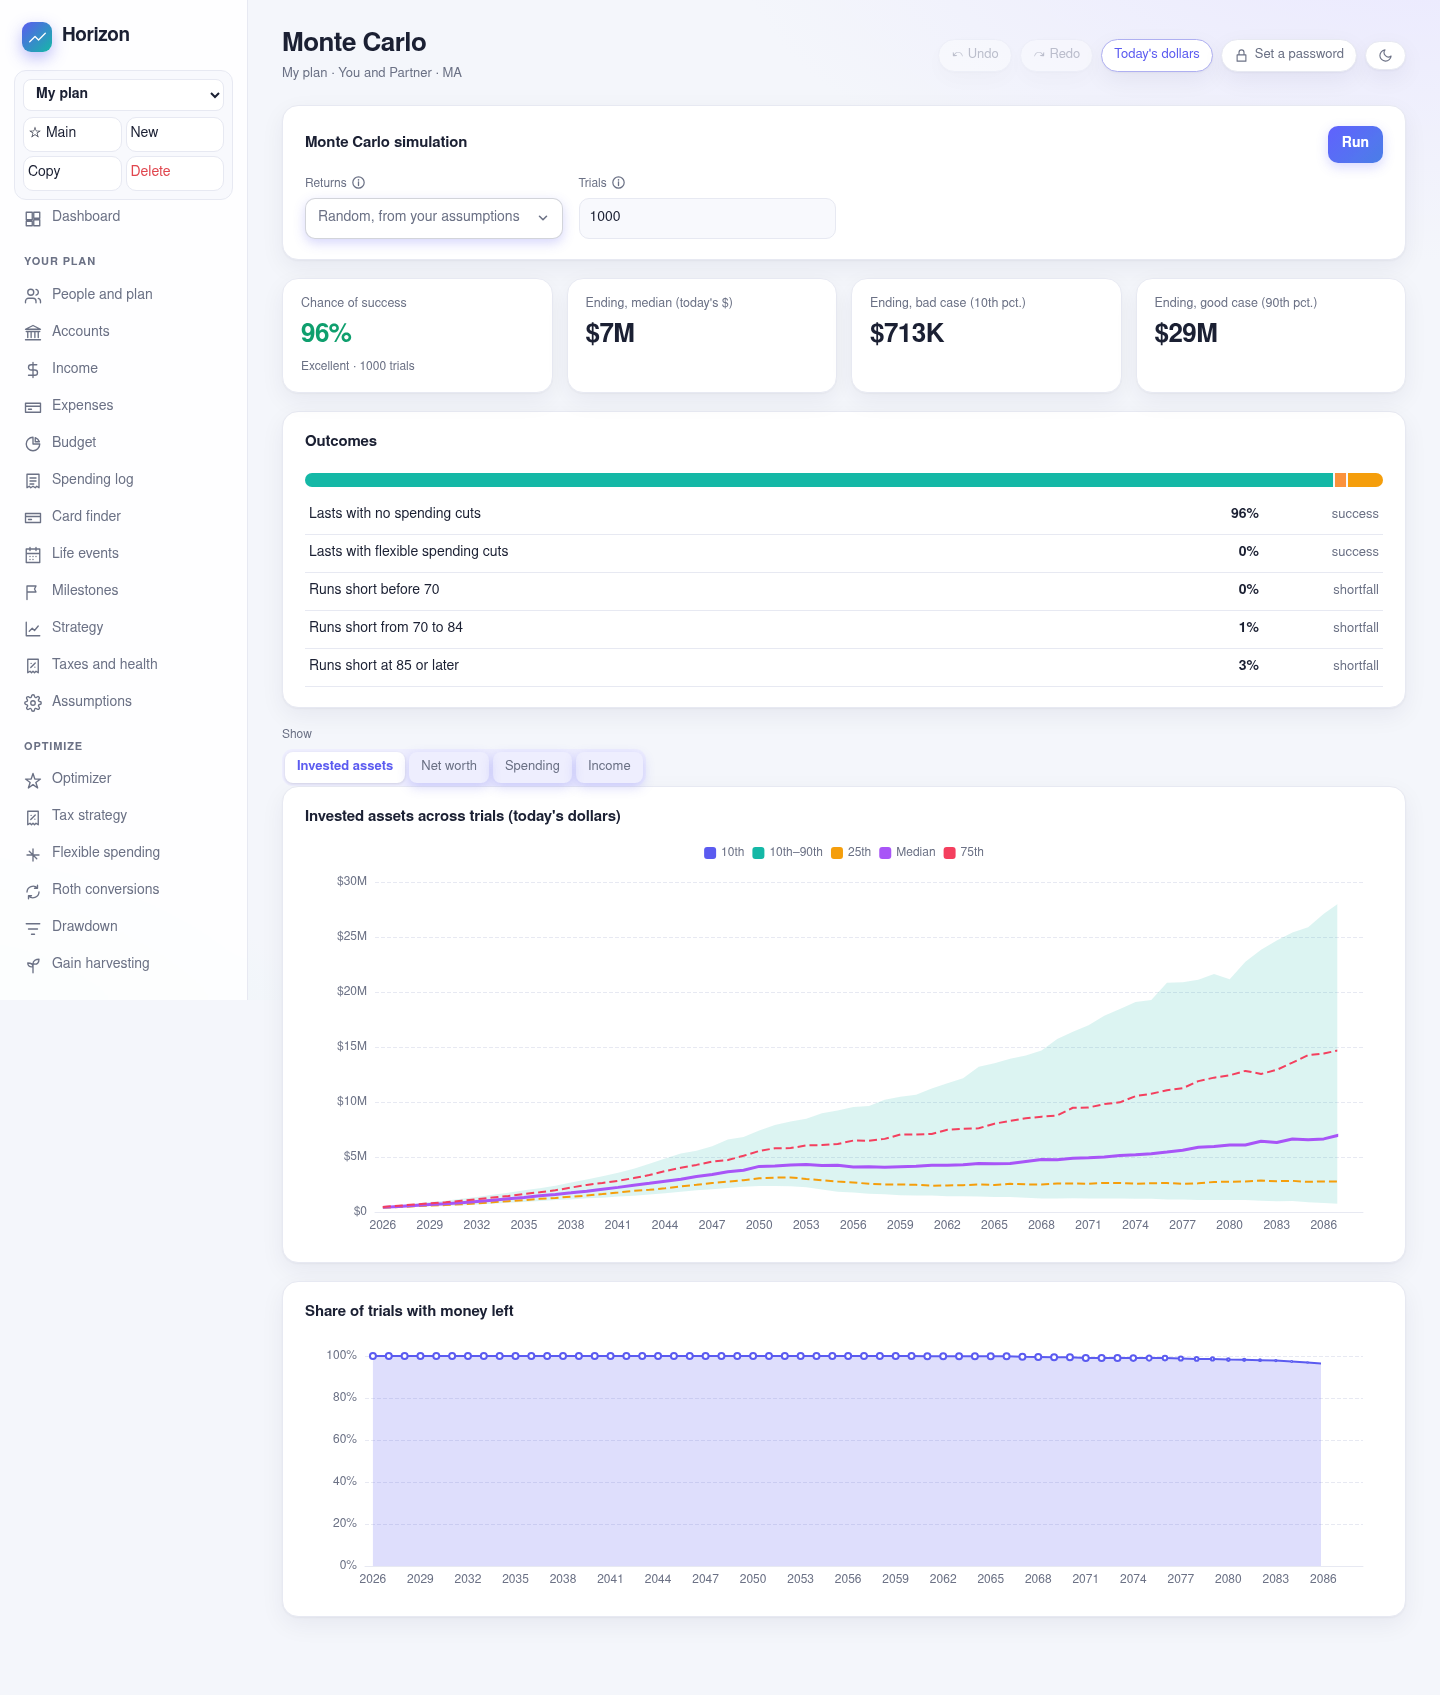
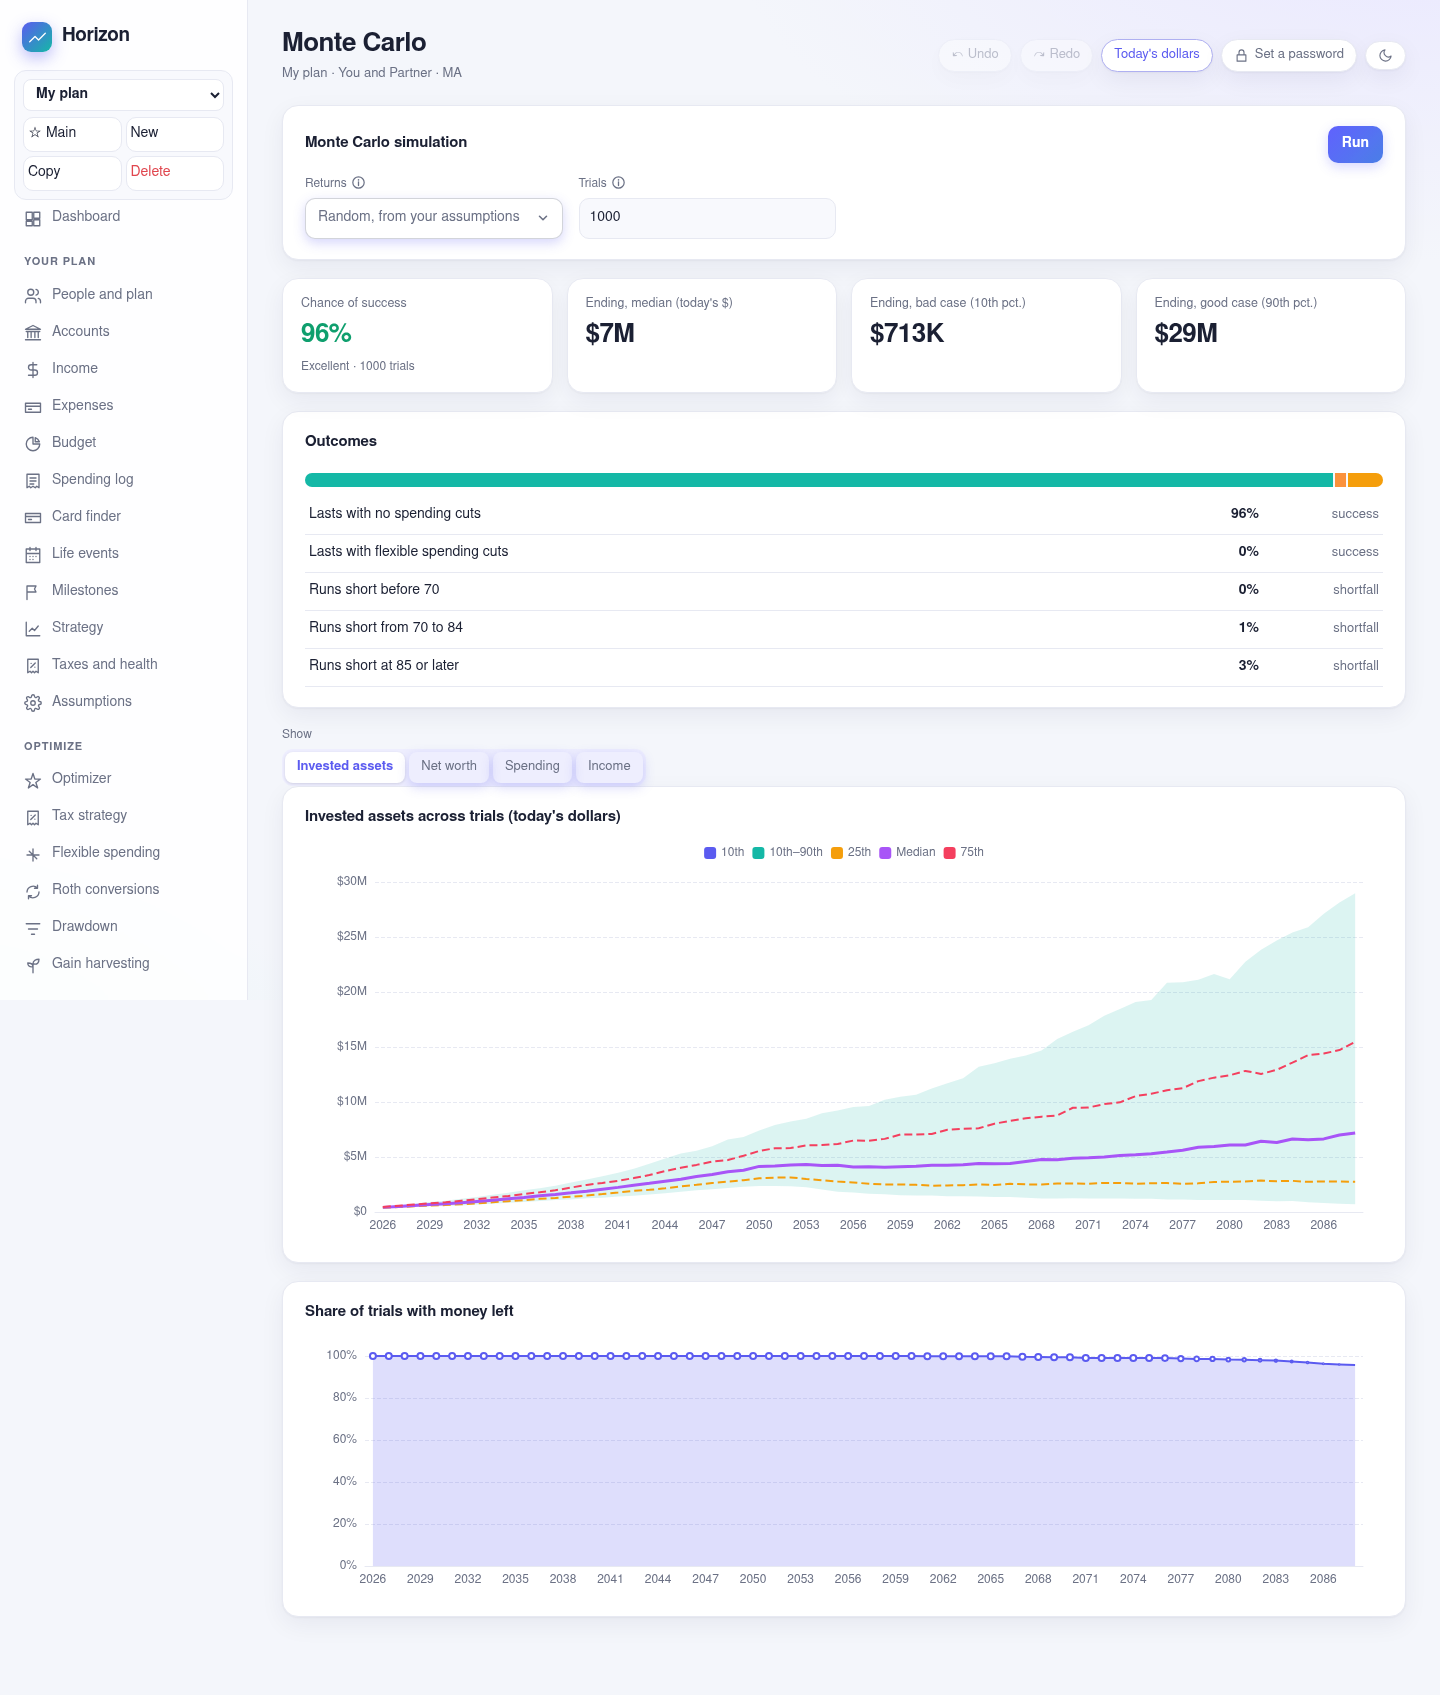
Plugin API (window.horizonPluginAPI: getAccounts, updateAccountValues, exportData, keyed and off by default) and tax-free PSLF forgiveness
Claude-Session: https://claude.ai/code/session_01HeJ1UAxjk6MGEszesTwGbu

Changed region(s): [[0.9062, 0.5215, 0.9688, 0.7056], [0.9062, 0.7976, 0.9688, 0.9204]]

diff --git a/10_app/code/src/plugins.ts b/10_app/code/src/plugins.ts
@@ -1,0 +1,44 @@
+// The plugin API (ProjectionLab's Plugin API, 2026-11-23): scripts running in the page read the active plan's accounts and
+// update balances, values, or cost basis, matched by account id, with the key shown in Settings. Off until enabled.
+import { useStore } from './store';
+
+type Update = { id: string; balance?: number; costBasis?: number };
+
+function check(key: string) {
+  const s = useStore.getState().settings;
+  if (!s.pluginsEnabled || !s.pluginKey || key !== s.pluginKey) throw new Error('Horizon plugin API: plugins are off or the key is wrong');
+}
+const active = () => { const st = useStore.getState(); return st.plans.find((p) => p.id === st.activeId)!; };
+
+export const pluginAPI = {
+  /** The active plan's accounts: id, name, kind, owner, and balance (debts as positive amounts owed). */
+  getAccounts(key: string) {
+    check(key);
+    return active().accounts.map((a) => ({ id: a.id, name: a.name, kind: a.kind, ownerId: a.ownerId, balance: a.kind === 'debt' ? Math.abs(a.balance) : a.balance, costBasis: a.costBasis }));
+  },
+  /** Updates balances (debts as positive amounts owed) and cost basis by account id; returns the ids not found. */
+  updateAccountValues(key: string, updates: Update[]) {
+    check(key);
+    const ids = new Set(active().accounts.map((a) => a.id));
+    const missing = updates.filter((u) => !ids.has(u.id)).map((u) => u.id);
+    useStore.getState().update((p) => {
+      for (const u of updates) {
+        const a = p.accounts.find((x) => x.id === u.id);
+        if (!a) continue;
+        if (typeof u.balance === 'number' && isFinite(u.balance)) a.balance = a.kind === 'debt' ? Math.abs(u.balance) : u.balance;
+        if (typeof u.costBasis === 'number' && isFinite(u.costBasis)) a.costBasis = u.costBasis;
+      }
+    });
+    return { missing };
+  },
+  /** Every plan, the progress records, and the settings, as the app's backup file holds them. */
+  exportData(key: string) {
+    check(key);
+    const { plans, snapshots, settings } = useStore.getState();
+    return structuredClone({ plans, snapshots, settings: { ...settings, pluginKey: undefined } });
+  },
+};
+
+export function installPlugins() {
+  (window as unknown as { horizonPluginAPI: typeof pluginAPI }).horizonPluginAPI = pluginAPI;
+}

diff --git a/10_app/code/src/App.tsx b/10_app/code/src/App.tsx
@@ -9,6 +9,8 @@ import { CardsPage } from './pages/Cards';
 import { SpendingPage } from './pages/Spending';
 import { TimelinePage } from './pages/Timeline';
 import { RentOwnPage } from './pages/RentOwn';
+import { installPlugins } from './plugins';
+installPlugins();
 import { HistoryPage } from './pages/History';
 import { Icon } from './icons';
 import { EstatePage, OptimizePage, PlotPage } from './pages/More';
@@ -393,6 +395,8 @@ function SettingsPage() {
         <div className="grid">
           <Check label="Show amounts in today's dollars" value={settings.realDollars} onChange={(v) => setSettings({ realDollars: v })} />
           <Check label="Hide amounts (dots in place of every figure)" value={!!settings.hideAmounts} onChange={(v) => setSettings({ hideAmounts: v })} />
+          <Check label="Enable plugins (window.horizonPluginAPI)" value={!!settings.pluginsEnabled} onChange={(v) => setSettings({ pluginsEnabled: v, pluginKey: v ? settings.pluginKey ?? crypto.randomUUID() : settings.pluginKey })} />
+          {settings.pluginsEnabled && <div className="row"><span>Plugin key: <code>{settings.pluginKey}</code></span><button className="ghost" onClick={() => setSettings({ pluginKey: crypto.randomUUID() })}>New key</button></div>}
           <Select label="Theme" value={settings.theme} options={[['auto', 'Auto'], ['light', 'Light'], ['dark', 'Dark']]} onChange={(v) => setSettings({ theme: v })} />
         </div>
       </Card>

diff --git a/10_app/code/src/engine/__tests__/plugins.test.ts b/10_app/code/src/engine/__tests__/plugins.test.ts
@@ -1,0 +1,21 @@
+import { describe, expect, it, vi } from 'vitest';
+import { examplePlan } from '../defaults';
+
+// The store persists to localStorage, which the test environment lacks: a map stands in.
+const mem = new Map<string, string>();
+vi.stubGlobal('localStorage', { getItem: (k: string) => mem.get(k) ?? null, setItem: (k: string, v: string) => mem.set(k, v), removeItem: (k: string) => mem.delete(k) });
+
+describe('plugin API', () => {
+  it('refuses a wrong key and updates balances by id with the right one', async () => {
+    const { useStore } = await import('../../store');
+    const { pluginAPI } = await import('../../plugins');
+    const plan = examplePlan();
+    useStore.setState({ plans: [plan], activeId: plan.id, settings: { ...useStore.getState().settings, pluginsEnabled: true, pluginKey: 'k' } });
+    expect(() => pluginAPI.getAccounts('bad')).toThrow();
+    const a = pluginAPI.getAccounts('k')[0];
+    const r = pluginAPI.updateAccountValues('k', [{ id: a.id, balance: 12345 }, { id: 'nope', balance: 1 }]);
+    expect(r.missing).toEqual(['nope']);
+    expect(pluginAPI.getAccounts('k')[0].balance).toBe(12345);
+    expect((pluginAPI.exportData('k').settings as { pluginKey?: string }).pluginKey).toBeUndefined();
+  });
+});

diff --git a/10_app/code/src/help.ts b/10_app/code/src/help.ts
@@ -308,4 +308,6 @@ export const HELP: Record<string, string> = {
   "Province or territory": "Where you file in Canada: its brackets and basic personal amount from the CRA 2026 tables. Quebec uses its own tax, pension plan, and parental insurance.",
   "Scottish taxpayer": "Earned and pension income is taxed at Scotland's 2026 to 2027 rates (19% to 48%); savings and dividends keep the UK rates.",
   "Take a quarter of each pension withdrawal tax-free": "Each pension withdrawal is a lump sum a quarter of which is tax-free, the rest taxed as income (an uncrystallised funds pension lump sum).",
+  "Forgiveness is tax-free (PSLF)": "Public Service Loan Forgiveness is not income. Forgiveness under an income-driven repayment plan is taxed as income from 2026.",
+  "Enable plugins (window.horizonPluginAPI)": "Lets a script in this browser read your accounts and update balances with getAccounts, updateAccountValues, and exportData, passing the key shown here. Keep the key private.",
 };

diff --git a/10_app/code/src/pages/Editors.tsx b/10_app/code/src/pages/Editors.tsx
@@ -403,6 +403,7 @@ export function AccountsPage() {
                   <Num label="Yearly payment" value={a.payment ?? 0} onChange={(v) => set((x) => { x.payment = v; })} />
                   <Num label="Extra payment a year (today's $)" value={a.extraPayment ?? 0} onChange={(v) => set((x) => { x.extraPayment = v; })} />
                   <Num label="Forgiven in year (0 for none)" value={a.forgiveYear ?? 0} onChange={(v) => set((x) => { x.forgiveYear = v || undefined; })} />
+                  {!!a.forgiveYear && <Check label="Forgiveness is tax-free (PSLF)" value={!!a.forgivenTaxFree} onChange={(v) => set((x) => { x.forgivenTaxFree = v || undefined; })} />}
                   </>}
                   <Num label="Annual fee" value={a.annualFee ?? 0} onChange={(v) => set((x) => { x.annualFee = v || undefined; })} />
                   <RatesEditor rates={a.rewards} onChange={(r) => set((x) => { x.rewards = r.length ? r : undefined; })} />

diff --git a/10_app/code/src/engine/types.ts b/10_app/code/src/engine/types.ts
@@ -101,6 +101,9 @@ export interface Account {
   inheritedYear?: number;
   /** Debts: the balance left is forgiven in this year (student loan forgiveness). */
   forgiveYear?: number;
+  /** Debts: the forgiven balance is not income (Public Service Loan Forgiveness); otherwise it is taxed, as income-driven
+   * repayment forgiveness is from 2026. */
+  forgivenTaxFree?: boolean;
   /** Assets: yearly rent (today's dollars), the share lost to vacancy, and yearly costs as a share of the rent. */
   rent?: number;
   vacancy?: number;

diff --git a/10_app/code/src/engine/simulate.ts b/10_app/code/src/engine/simulate.ts
@@ -558,8 +558,7 @@ function simulateOnce(plan: Plan, path: ReturnPath, rothByYear?: Record<number, 
         const forgiven = -state.balance[d.id];
         state.balance[d.id] = 0;
         income['forgiven_' + d.id] = forgiven;
-        otherOrdinary += forgiven;
-        untaxedIncome -= forgiven;
+        if (!d.forgivenTaxFree) { otherOrdinary += forgiven; untaxedIncome -= forgiven; }
       }
     }
 

diff --git a/10_app/code/src/store.ts b/10_app/code/src/store.ts
@@ -40,6 +40,9 @@ export interface Settings {
   chartRealAssets?: boolean;
   /** Show every amount as dots (for a screen someone else can see). */
   hideAmounts?: boolean;
+  /** The plugin API (plugins.ts): on, and the key a script must pass. */
+  pluginsEnabled?: boolean;
+  pluginKey?: string;
 }
 
 interface AppState {
